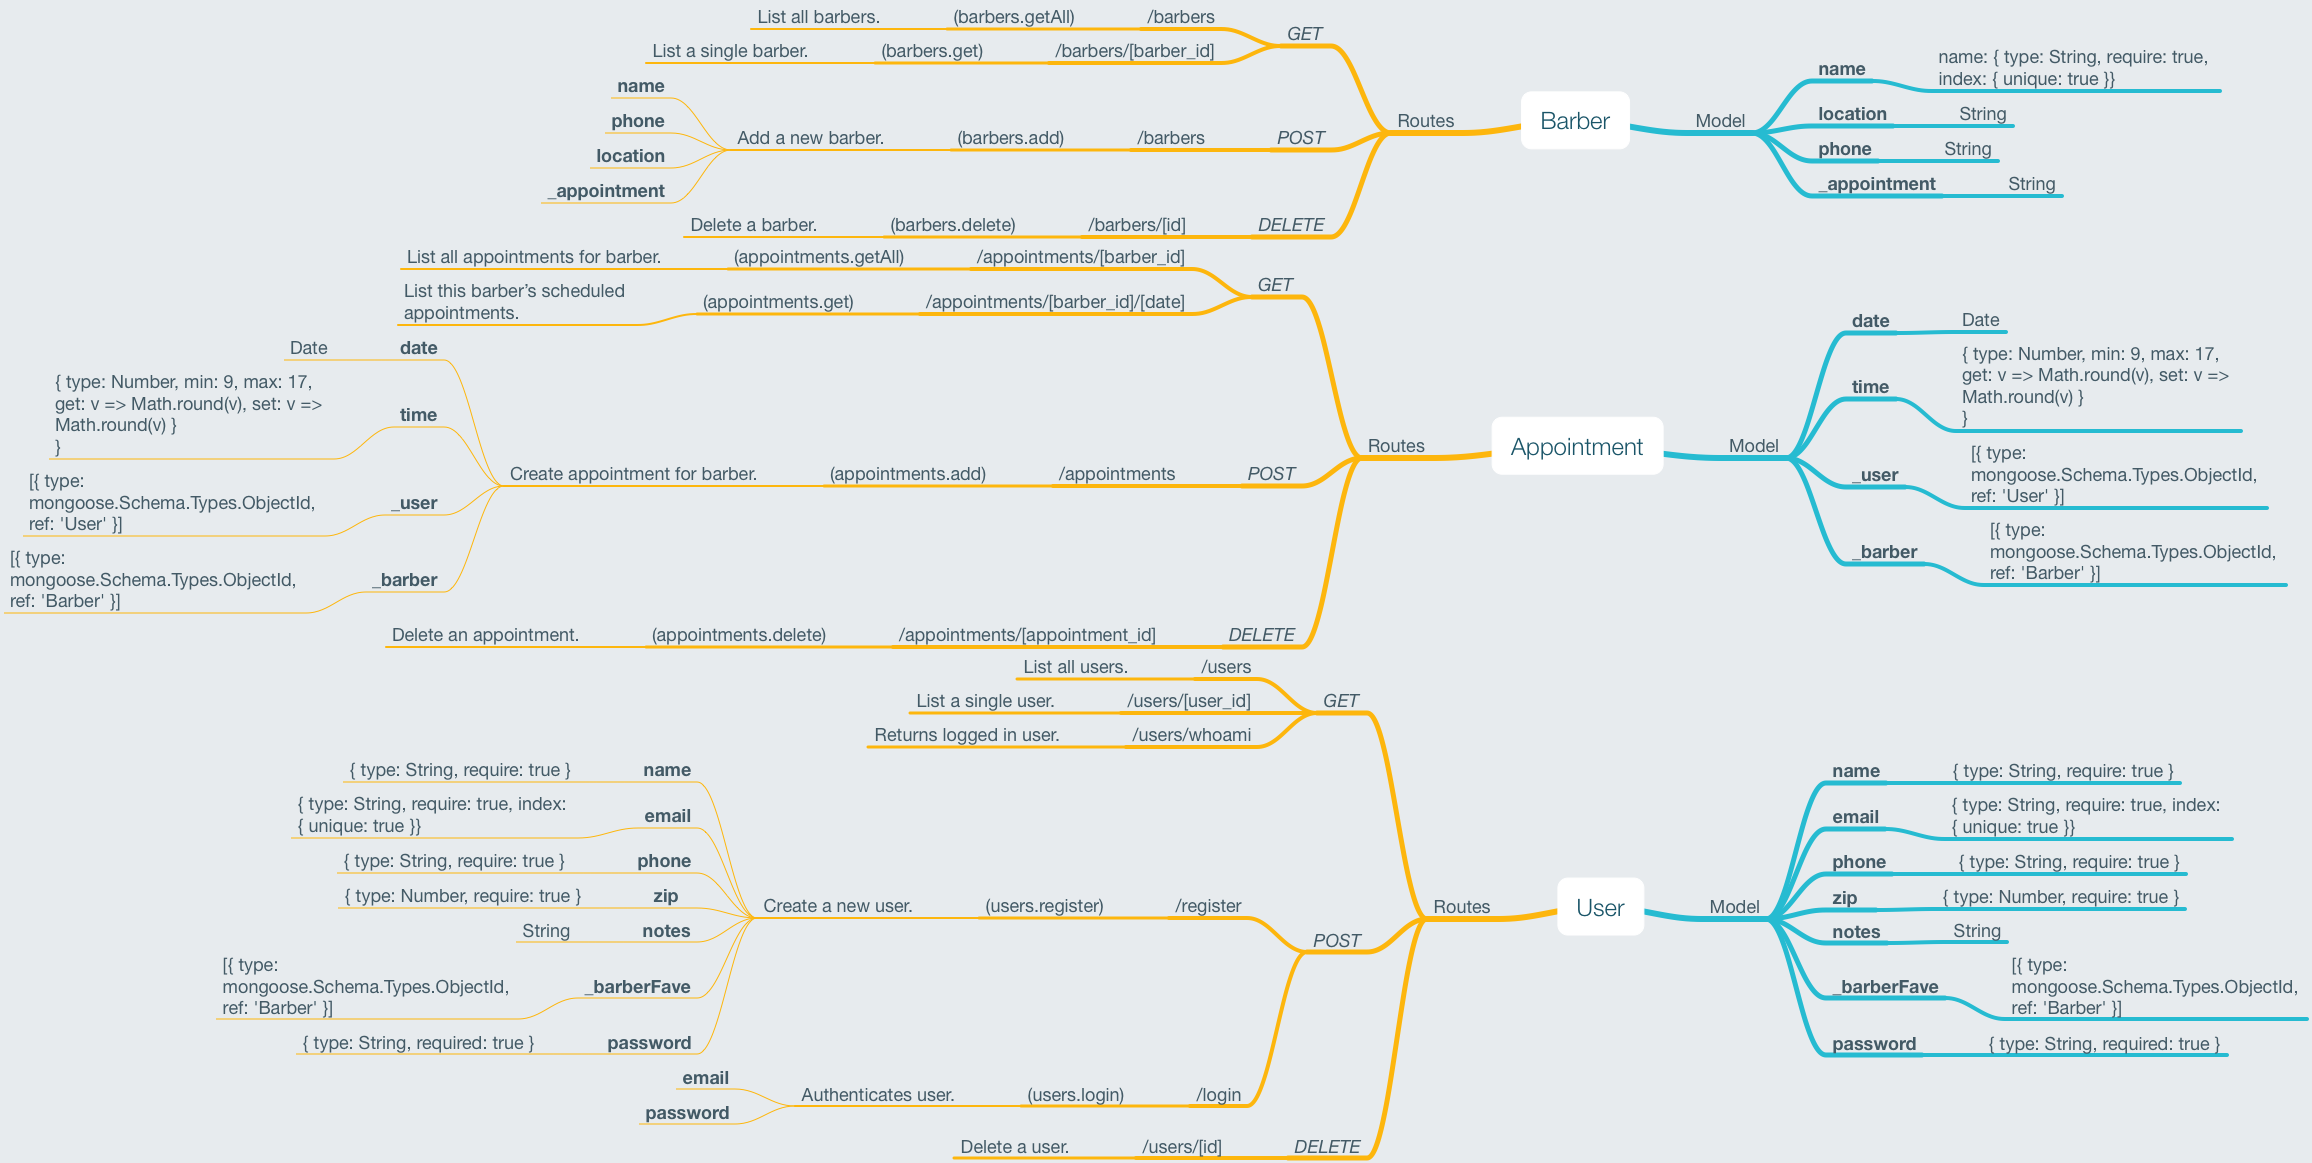
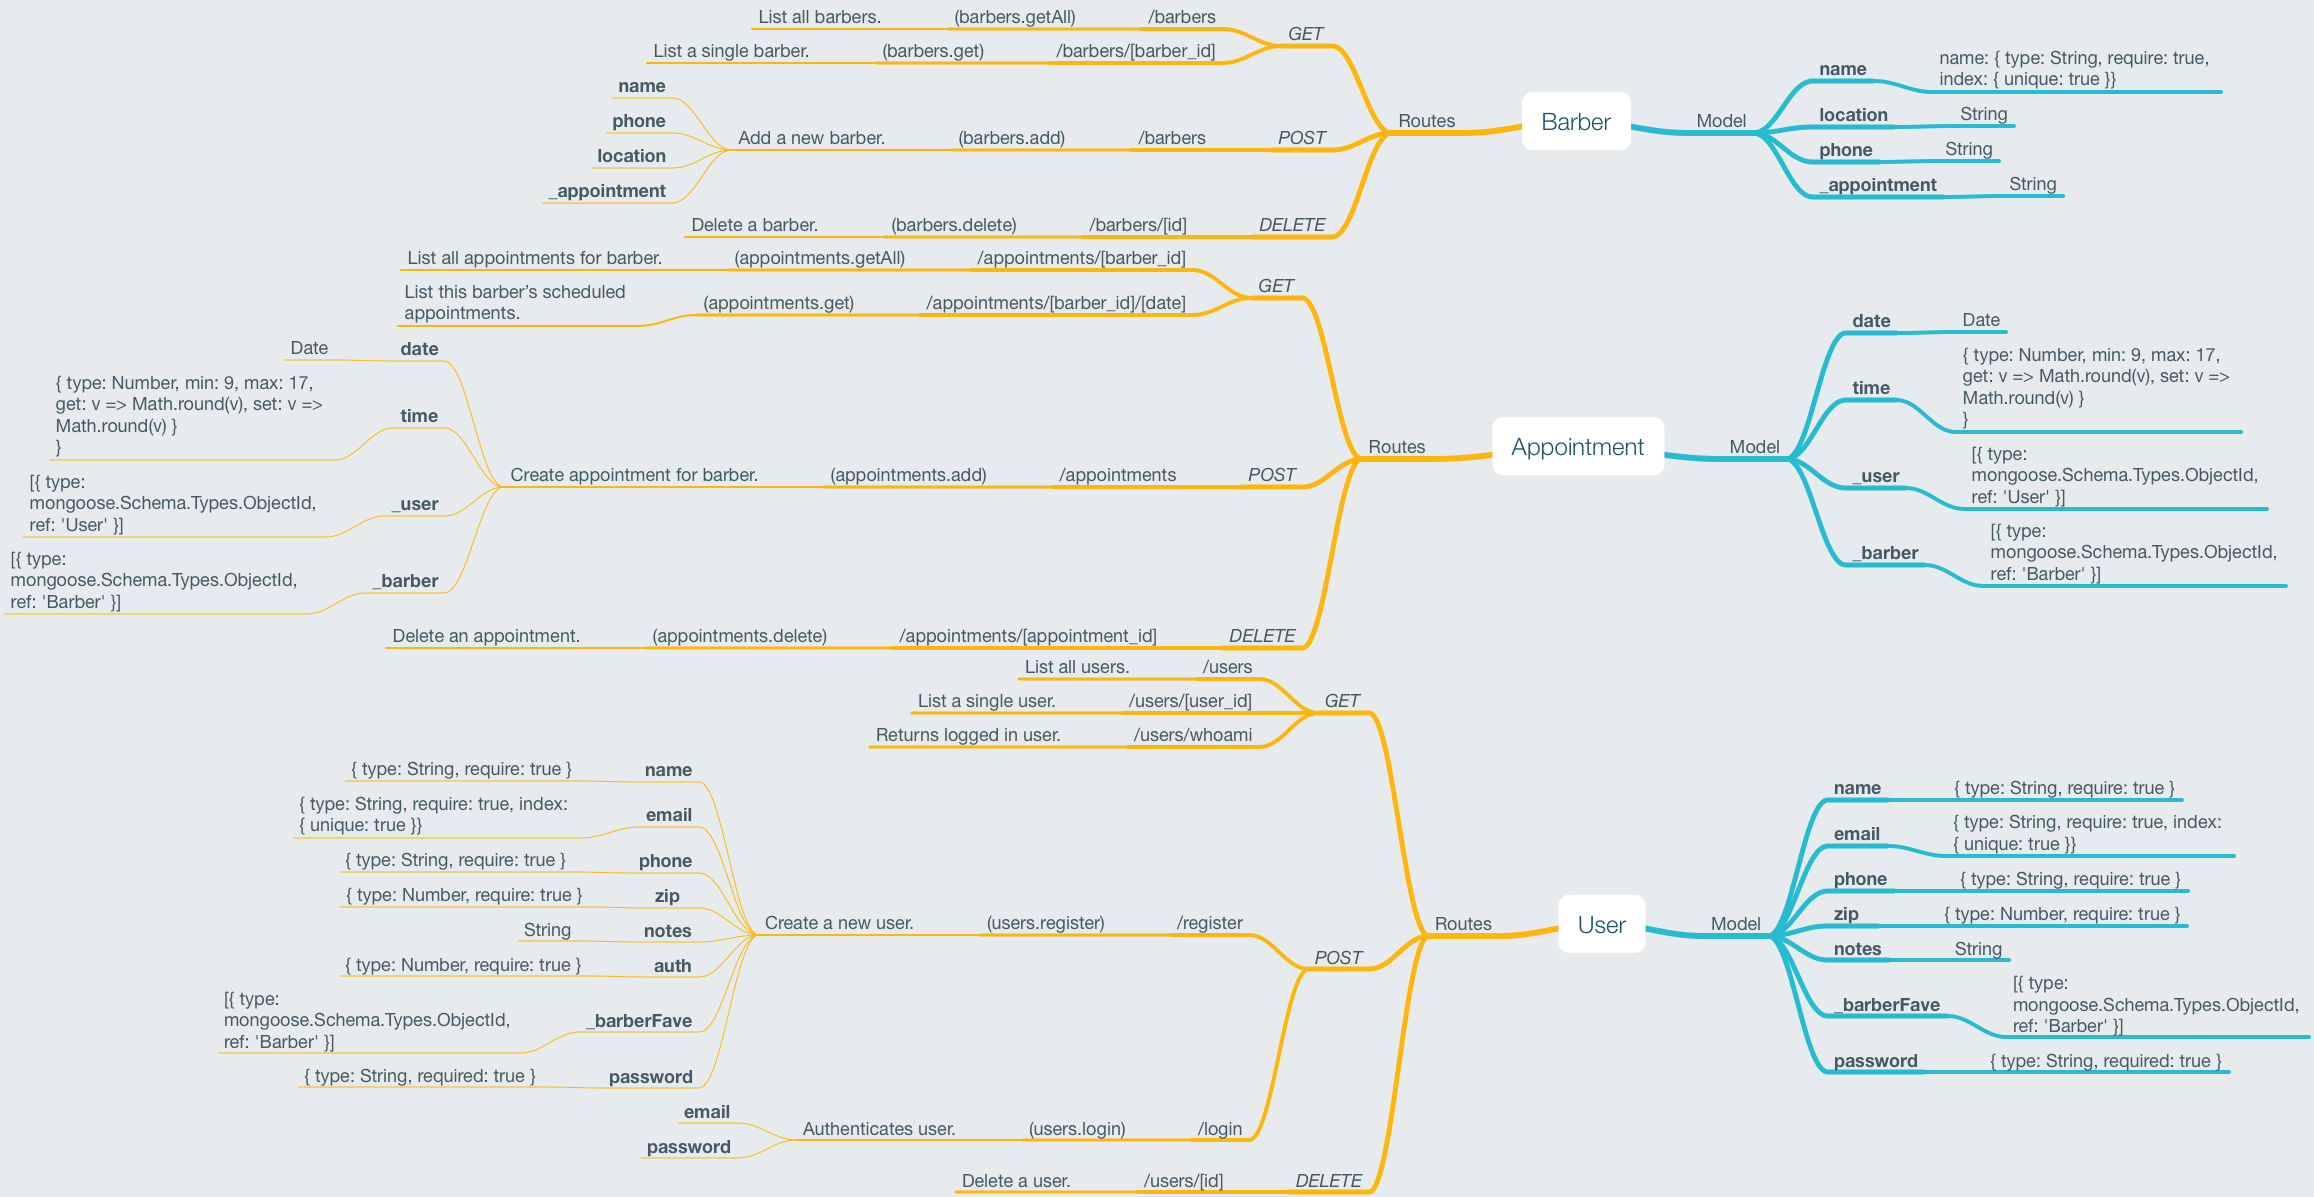
Updated model for user for auth levels
Also removed the array in Appointments for _user and _barber

diff --git a/server/models/Appointment.js b/server/models/Appointment.js
@@ -4,8 +4,8 @@ var mongoose = require('mongoose');
 // Define our appointment schema
 //
 var AppointmentSchema = new mongoose.Schema({
-  _user: [{ type: mongoose.Schema.Types.ObjectId, ref: 'User' }],
-  _barber: [{ type: mongoose.Schema.Types.ObjectId, ref: 'Barber' }],
+  _user: { type: mongoose.Schema.Types.ObjectId, ref: 'User' },
+  _barber: { type: mongoose.Schema.Types.ObjectId, ref: 'Barber' },
   date: Date,
   time: { type: Number, min: 9, max: 17, get: v => Math.round(v), set: v => Math.round(v) }
 }, {timestamps: true});

diff --git a/server/models/User.js b/server/models/User.js
@@ -10,7 +10,8 @@ var UserSchema = new mongoose.Schema({
   phone: { type: String, require: true },
   zip: { type: Number, require: true },
   notes: String,
-  _barberFave: [{ type: mongoose.Schema.Types.ObjectId, ref: 'Barber' }],
+  auth: { type: Number, require: true },
+  _barberFave: { type: mongoose.Schema.Types.ObjectId, ref: 'Barber' },
   password: { type: String, required: true }
 }, {timestamps: true});
 
